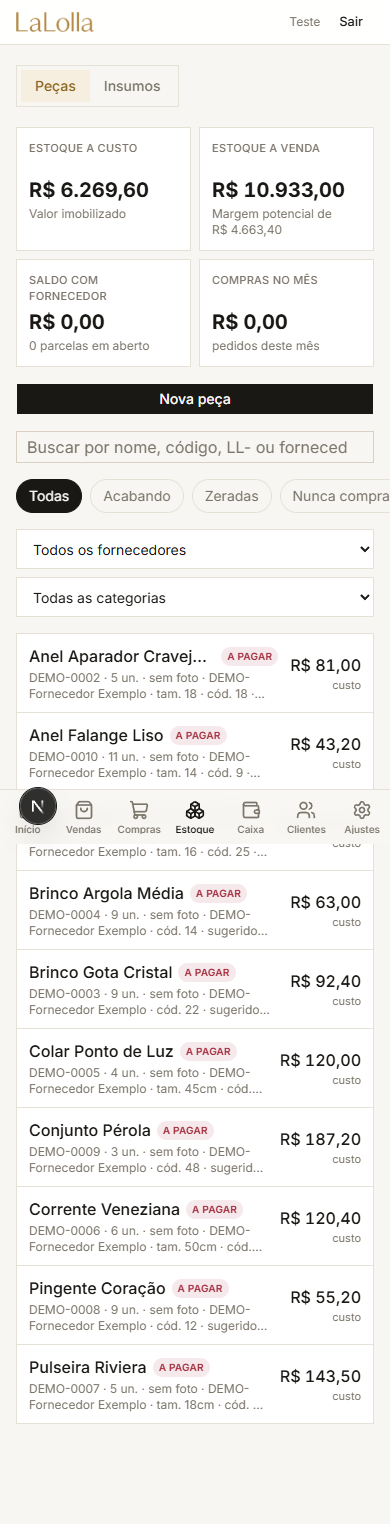
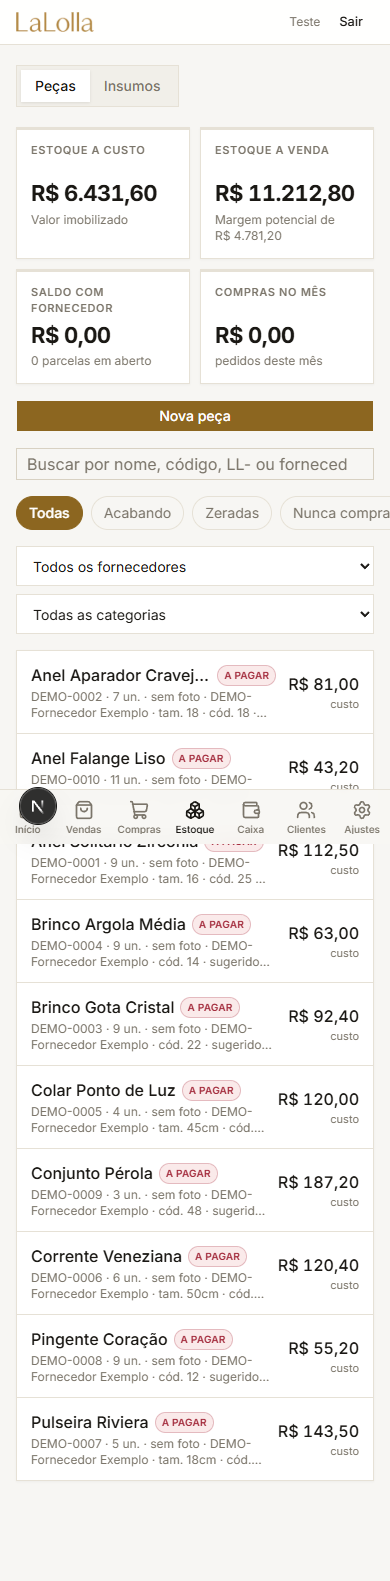
Acabamento: o ouro da marca no lugar do preto
O botão de ação era PRETO — o padrão que veio com a biblioteca. Num app de
semijoias, com a logo em ouro velho, "Nova venda" em preto era a coisa mais
genérica da tela. Agora o ouro manda na ação e o preto volta a ser só a cor
do texto. No escuro o ouro clareia para continuar legível.

Os quadrados continuam quadrados, como o João pediu — só mais bonitos:

- fita de cor na borda de cima do cartão, no tom do número: de longe já se
  vê que tem coisa vencida (vermelho) ou dinheiro entrando (ouro), sem
  precisar ler
- sombra quase nada: com oito cartões na tela, sombra forte vira barulho
- abas viraram pastilha branca erguida sobre fundo próprio, em vez de só
  mudar de cor
- filtro ligado é ouro da marca, não um retângulo escuro
- pílulas com contorno fino no lugar do fundo chapado: param de competir
  com o nome da peça, que é o que se está lendo
- linha clicável ganha um traço de ouro na borda esquerda ao passar o mouse
  — o menor sinal possível de "isto abre", sem mover o texto (numa lista de
  trinta linhas, mover daria sensação de tremer)
- "Nova peça" ocupava a largura toda e virava uma barra dourada atravessada;
  agora só ocupa tudo no celular, onde faz sentido

Sondas: 318 conferências, todas passando.

diff --git a/src/components/padrao/indicadores.tsx b/src/components/padrao/indicadores.tsx
@@ -22,31 +22,61 @@ export function Indicador({
   tom?: TomIndicador;
 }) {
   return (
-    <div className="min-w-0 rounded-lg border bg-card p-3">
+    /*
+     * O cartão ganhou uma FITA de cor na borda de cima, no tom do número.
+     * O João pediu "esses quadrados, mas mais bonito": a fita dá o recado
+     * antes da leitura — de longe já se vê que tem coisa vencida (vermelho)
+     * ou dinheiro entrando (ouro), sem precisar ler o número.
+     *
+     * A sombra é quase nada, de propósito. Sombra forte numa tela com oito
+     * cartões vira barulho; o que separa aqui é o branco do cartão sobre o
+     * creme da página.
+     */
+    <div
+      className={cn(
+        "relative min-w-0 overflow-hidden rounded-xl border bg-card p-3.5",
+        "shadow-[0_1px_2px_rgba(26,24,20,.04)] transition-shadow duration-200",
+        "hover:shadow-[0_2px_10px_-4px_rgba(26,24,20,.14)]",
+      )}
+    >
+      <span
+        aria-hidden
+        className={cn(
+          "absolute inset-x-0 top-0 h-0.5",
+          tom === "accent" && "bg-(--ll-accent)",
+          tom === "neg" && "bg-(--ll-danger)",
+          tom === "neutro" && "bg-(--ll-line)",
+        )}
+      />
+
       {/* No celular o cartão é estreito e o título era cortado
           ("A PAGAR AO FORNECED…"). Duas linhas com altura reservada: o texto
           cabe inteiro e os cartões continuam alinhados entre si. */}
-      <p className="line-clamp-2 min-h-[2rem] text-[11px] font-medium uppercase leading-4 tracking-wide text-muted-foreground sm:line-clamp-none sm:min-h-0 sm:truncate">
+      <p className="line-clamp-2 min-h-[2rem] text-[11px] font-semibold uppercase leading-4 tracking-[0.06em] text-muted-foreground sm:line-clamp-none sm:min-h-0 sm:truncate">
         {titulo}
       </p>
       {/* nowrap + overflow-hidden: número grande encolhe a caixa, nunca
           estica a página. Foi o que causou rolagem lateral no app antigo. */}
       <p
         className={cn(
-          "mt-1 overflow-hidden whitespace-nowrap text-xl font-bold tabular-nums",
-          tom === "accent" && "text-amber-700 dark:text-amber-500",
-          tom === "neg" && "text-destructive",
+          "mt-1.5 overflow-hidden whitespace-nowrap text-[1.375rem] font-bold leading-tight tracking-tight tabular-nums",
+          tom === "accent" && "text-(--ll-accent)",
+          tom === "neg" && "text-(--ll-danger)",
         )}
       >
         {valor}
       </p>
-      {sub && <p className="mt-0.5 line-clamp-2 text-xs leading-4 text-muted-foreground sm:line-clamp-none sm:truncate">{sub}</p>}
+      {sub && (
+        <p className="mt-1 line-clamp-2 text-xs leading-4 text-muted-foreground sm:line-clamp-none sm:truncate">
+          {sub}
+        </p>
+      )}
     </div>
   );
 }
 
 export function Indicadores({ children }: { children: React.ReactNode }) {
-  return <div className="grid grid-cols-2 gap-2 lg:grid-cols-4">{children}</div>;
+  return <div className="grid grid-cols-2 gap-2.5 lg:grid-cols-4">{children}</div>;
 }
 
 /** Estado vazio com convite à primeira ação — `blocoVazio()` do app antigo. */
@@ -83,16 +113,18 @@ export function Segmentado({
   href: (valor: string) => string;
 }) {
   return (
-    <div className="inline-flex rounded-lg border p-1">
+    // Fundo próprio e aba erguida em branco: a escolhida parece uma pastilha
+    // por cima, em vez de só mudar de cor. Fica óbvio onde se está.
+    <div className="inline-flex rounded-xl border bg-(--ll-surface-2) p-1">
       {opcoes.map(([valor, rotulo]) => (
         <Link
           key={valor}
           href={href(valor)}
           aria-current={atual === valor ? "page" : undefined}
           className={cn(
-            "rounded-md px-3.5 py-1.5 text-sm font-medium transition-colors",
+            "rounded-lg px-3.5 py-1.5 text-sm font-medium transition-all duration-200 ease-(--ll-ease)",
             atual === valor
-              ? "bg-accent text-accent-foreground"
+              ? "bg-card text-foreground shadow-[0_1px_3px_rgba(26,24,20,.10)]"
               : "text-muted-foreground hover:text-foreground",
           )}
         >
@@ -122,10 +154,12 @@ export function Chips({
             href={href(valor)}
             aria-pressed={atual === valor}
             className={cn(
-              "shrink-0 rounded-full border px-3 py-1.5 text-sm transition-colors",
+              "shrink-0 rounded-full border px-3 py-1.5 text-sm transition-all duration-200 ease-(--ll-ease)",
               atual === valor
-                ? "border-foreground bg-foreground text-background"
-                : "text-muted-foreground hover:text-foreground",
+                // Ouro da marca no lugar do preto: o filtro ligado passa a ser
+                // LaLolla, e não um retângulo escuro genérico.
+                ? "border-(--ll-accent) bg-(--ll-accent) font-medium text-(--ll-accent-ink)"
+                : "text-muted-foreground hover:border-(--ll-accent-line) hover:bg-(--ll-accent-soft) hover:text-(--ll-accent)",
             )}
           >
             {rotulo}
@@ -138,7 +172,11 @@ export function Chips({
 
 /** Cartão-lista: as linhas do app antigo (`.card.list` + `.row`). */
 export function Lista({ children }: { children: React.ReactNode }) {
-  return <div className="divide-y overflow-hidden rounded-lg border bg-card">{children}</div>;
+  return (
+    <div className="divide-y overflow-hidden rounded-xl border bg-card shadow-[0_1px_2px_rgba(26,24,20,.04)]">
+      {children}
+    </div>
+  );
 }
 
 /**
@@ -197,11 +235,24 @@ export function Linha({
   }
 
   return onClickHref ? (
-    <Link href={onClickHref} className="flex w-full items-center gap-3 px-3 py-2.5 hover:bg-accent/40">
+    /*
+     * A linha clicável ganhou uma marca de ouro na borda esquerda que nasce no
+     * hover. É o menor sinal possível de "isto abre" — sem mover o texto, que
+     * numa lista de trinta linhas daria a sensação de tremer.
+     */
+    <Link
+      href={onClickHref}
+      className={cn(
+        "relative flex w-full items-center gap-3 px-3.5 py-3 transition-colors duration-150",
+        "before:absolute before:inset-y-0 before:left-0 before:w-0.5 before:bg-(--ll-accent)",
+        "before:scale-y-0 before:transition-transform before:duration-200 before:ease-(--ll-ease)",
+        "hover:bg-(--ll-accent-soft)/50 hover:before:scale-y-100",
+      )}
+    >
       {conteudo}
     </Link>
   ) : (
-    <div className="flex w-full items-center gap-3 px-3 py-2.5">{conteudo}</div>
+    <div className="flex w-full items-center gap-3 px-3.5 py-3">{conteudo}</div>
   );
 }
 
@@ -216,10 +267,12 @@ export function Pilula({
   return (
     <span
       className={cn(
-        "shrink-0 rounded-full px-1.5 py-0.5 text-[10px] font-semibold uppercase tracking-wide",
-        tom === "due" && "bg-destructive/10 text-destructive",
-        tom === "accent" && "bg-amber-500/15 text-amber-700 dark:text-amber-500",
-        tom === "neutro" && "bg-muted text-muted-foreground",
+        // Contorno fino no lugar do fundo chapado: a pílula para de competir
+        // com o nome da peça, que é o que a pessoa está lendo.
+        "shrink-0 rounded-full border px-1.5 py-0.5 text-[10px] font-semibold uppercase tracking-wide",
+        tom === "due" && "border-(--ll-danger)/25 bg-(--ll-danger-soft) text-(--ll-danger)",
+        tom === "accent" && "border-(--ll-accent-line) bg-(--ll-accent-soft) text-(--ll-accent)",
+        tom === "neutro" && "border-(--ll-line-2) bg-(--ll-surface-2) text-muted-foreground",
       )}
     >
       {children}

diff --git a/src/app/globals.css b/src/app/globals.css
@@ -97,8 +97,14 @@
   --card-foreground: var(--ll-ink);
   --popover: var(--ll-surface);
   --popover-foreground: var(--ll-ink);
-  --primary: var(--ll-ink);
-  --primary-foreground: var(--ll-canvas);
+  /*
+   * O botão principal era PRETO — o padrão que veio com a biblioteca. Num app
+   * de semijoias, com a logo em ouro velho, "Nova venda" em preto era a coisa
+   * mais genérica da tela. Agora o ouro da marca manda no botão de ação, e o
+   * preto continua sendo só a cor do texto.
+   */
+  --primary: var(--ll-accent);
+  --primary-foreground: var(--ll-accent-ink);
   --secondary: var(--ll-surface-2);
   --secondary-foreground: var(--ll-ink-2);
   --muted: var(--ll-surface-2);
@@ -134,8 +140,9 @@
   --card-foreground: oklch(0.985 0 0);
   --popover: oklch(0.205 0 0);
   --popover-foreground: oklch(0.985 0 0);
-  --primary: oklch(0.922 0 0);
-  --primary-foreground: oklch(0.205 0 0);
+  /* No escuro o ouro precisa clarear para continuar legível sobre o fundo. */
+  --primary: #C79A46;
+  --primary-foreground: #201A0E;
   --secondary: oklch(0.269 0 0);
   --secondary-foreground: oklch(0.985 0 0);
   --muted: oklch(0.269 0 0);

diff --git a/src/modules/pecas/components/nova-peca.tsx b/src/modules/pecas/components/nova-peca.tsx
@@ -56,7 +56,7 @@ export function NovaPeca({
     <Dialog open={aberto} onOpenChange={setAberto}>
       {/* Base UI compõe com `render`, não com `asChild` (que é do Radix).
           O shadcn novo ("base-nova") roda sobre Base UI. */}
-      <DialogTrigger render={rotulo ? <Button /> : <Button className="w-full" />}>
+      <DialogTrigger render={rotulo ? <Button /> : <Button className="w-full sm:w-auto" />}>
         {rotulo ?? "Nova peça"}
       </DialogTrigger>
 

diff --git a/src/modules/pecas/components/novo-insumo.tsx b/src/modules/pecas/components/novo-insumo.tsx
@@ -60,7 +60,7 @@ export function NovoInsumo({
         }
       }}
     >
-      <DialogTrigger render={rotulo ? <Button /> : <Button className="w-full" />}>
+      <DialogTrigger render={rotulo ? <Button /> : <Button className="w-full sm:w-auto" />}>
         {rotulo ?? (insumo ? "Editar insumo" : "Novo insumo")}
       </DialogTrigger>
 
